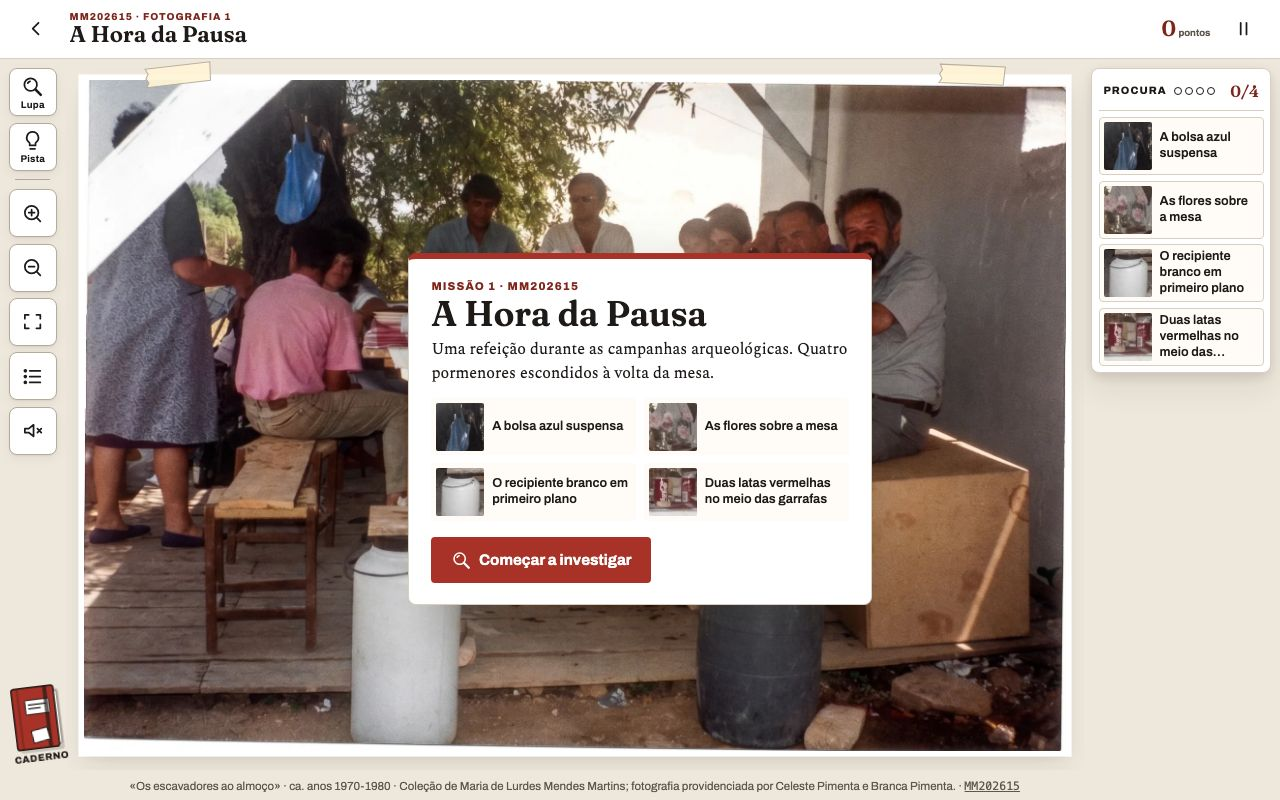
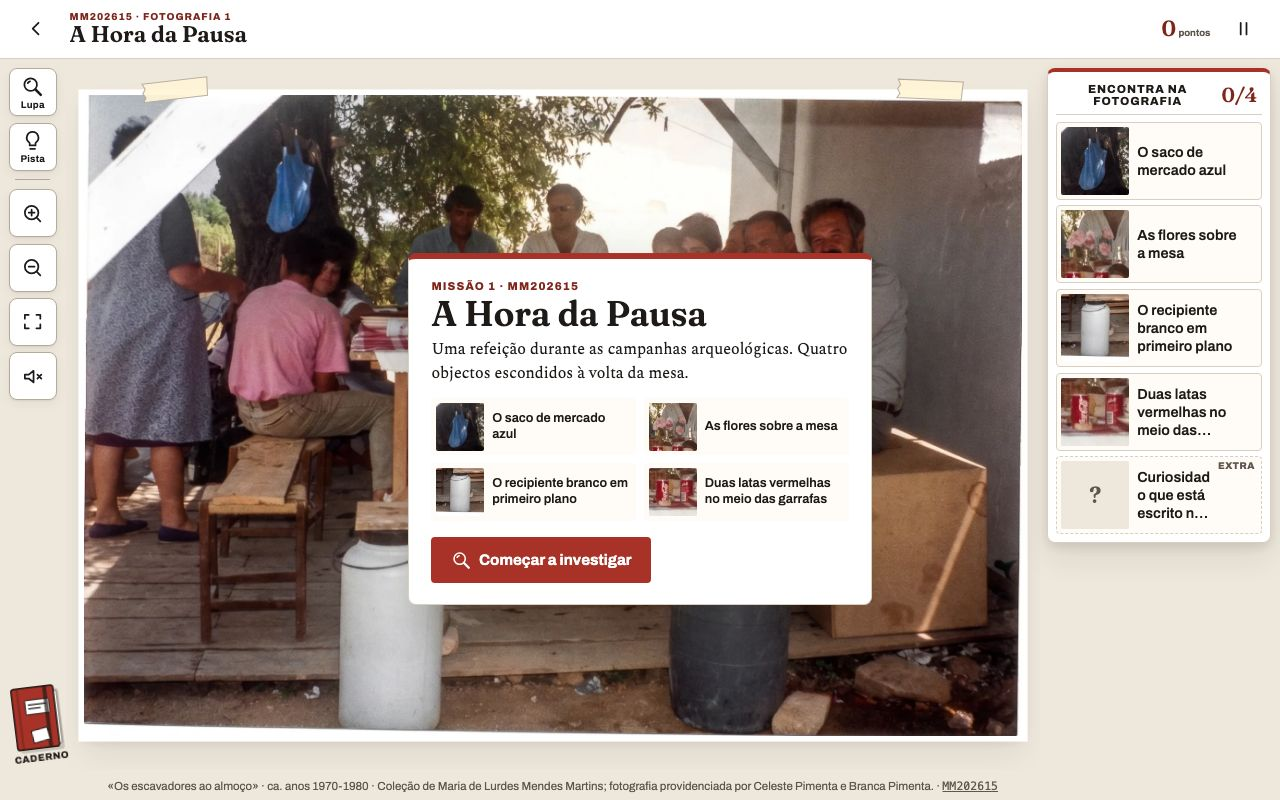
feat(lab): Detetives 0.3.1 — correcções do responsável
- MM202615 sem suposições: saco de mercado; recipiente branco sem material/uso.
- Resultado imediato ao descobrir (sem «Saber mais»); objectivos maiores e mais visíveis;
  pontinhos e «Explorar por descrição» saem da barra (descrição passa para a Pausa).
- Curiosidades com dados da ficha (verso Kodak MM202615; carimbo Kodak dez. 1984 MM202621).
- Mapa de atenção local (equipa) por fotografia; nunca enviado.
- Cartões quadrados com o objecto inteiro. Testes 740; e2e 1280/768/375 sem erros/CSP/overflow.

diff --git a/src/lab/lab.css b/src/lab/lab.css
@@ -369,8 +369,10 @@
   .dm-notebook-obj{position:fixed;left:max(.7rem,env(safe-area-inset-left,0px));bottom:calc(.35rem + env(safe-area-inset-bottom,0px));z-index:5;width:3rem}
   .dm-notebook-obj__label{display:none}
   .dm-guide{position:fixed;left:.6rem;right:.6rem;bottom:calc(4.4rem + env(safe-area-inset-bottom,0px));max-width:none}
-  .dm-discovery{position:fixed;left:.6rem;right:.6rem;bottom:calc(4.4rem + env(safe-area-inset-bottom,0px));width:auto;max-height:55vh;grid-template-columns:3.5rem minmax(0,1fr)}
+  .dm-discovery{position:relative;inset:auto;order:3;flex:0 0 auto;margin:.5rem .6rem 0;width:auto;max-height:none;overflow:visible;grid-template-columns:3.5rem minmax(0,1fr);box-shadow:var(--dm-e1)}
+  .dm-objectives{order:2}.dm-stage{order:0}.dm-credit{order:1}.dm-tools{order:10}
   .dm-discovery .dm-obj__pic{width:3.5rem;height:3.5rem}
+  .dm-obj__pic{width:3.6rem;height:3.6rem}
   .dm-describe{position:fixed;top:auto;left:.6rem;right:.6rem;bottom:calc(4.4rem + env(safe-area-inset-bottom,0px));width:auto;max-height:60vh}
   .dm-brief{position:fixed;top:auto;bottom:calc(.6rem + env(safe-area-inset-bottom,0px));left:.6rem;right:.6rem;width:auto;max-height:80vh;transform:none;animation-name:dm-rise}
   .dm-brief__objs{grid-template-columns:1fr 1fr}

diff --git a/docs/website/DETETIVES_PLANEAMENTO_MISSOES.md b/docs/website/DETETIVES_PLANEAMENTO_MISSOES.md
@@ -25,26 +25,26 @@ Sobreposições para revisão: `docs/website/capturas/detetives-v0.2/<ID>_pistas
 - **Recompensa:** Selo do quotidiano · página do álbum «O quotidiano das equipas» · mensagem: «Descobriste que a história de uma escavação também se constrói à volta da mesa.»
 - **Ligações:** MM202622
 
-> **v0.3 (2026-11-03) — substituída** a versão v0.2 (mesa, contagem do grupo, flores, comparação com MM202622) por **quatro objectos concretos** para procurar, a pedido do responsável («bolsa azul suspensa, flores sobre a mesa, recipiente branco em primeiro plano» + um 4.º pormenor validado). Objectivos vagos («encontra o grupo/a mesa») retirados. A ligação a MM202622 passa para a história final da recompensa.
-> Coordenadas no espaço da **variante canónica** (`immersive`); o jogo mostra o derivado de apresentação sem margens do scan e converte-as pelo recorte registado em `public/data/lab/detetives-derivados.json`.
+> **v0.3.1 (2026-11-03) — correcções do responsável:** «bolsa azul» → **saco de mercado**; recipiente branco **sem material nem uso** (não se sabe se é plástico); textos limitados ao que se vê (sem interpretações sobre protecção, refrigerantes ou gestos). Acrescentada a curiosidade **«O verso da fotografia»** (extra) com os dados da ficha (indicação Kodak, formato).
+> Coordenadas no espaço da **variante canónica** (`immersive`); o jogo mostra o derivado de apresentação sem margens do scan (`public/data/lab/detetives-derivados.json`).
 
-| # | Descoberta | Camada | Tipo | Elemento visível confirmado | Zona (canónica) | Certeza | Fonte |
+| # | Descoberta | Camada | Tipo | Elemento visível confirmado / dados | Zona (canónica) | Certeza | Fonte |
 |---|---|---|---|---|---|---|---|
-| 1 | A bolsa azul | Observação | find | Saco de plástico azul pendurado num ramo do tronco escuro, à esquerda, acima das cabeças. | rect (0.232,0.18)–(0.29,0.292) | Confirmado | Ficha do Museu de Memórias MM202615 + observação directa da fotografia. |
-| 2 | As flores na mesa | Observação | find | Flores cor-de-rosa num copo de vidro, ao centro da mesa, entre garrafas. | rect (0.457,0.322)–(0.523,0.365) | Hipótese | Ficha do Museu de Memórias MM202615 + observação directa da fotografia. |
-| 3 | O recipiente branco | Observação | find | Bidão de plástico branco com asa metálica, no chão, em primeiro plano à esquerda. | rect (0.302,0.642)–(0.4,0.885) | Hipótese | Ficha do Museu de Memórias MM202615 + observação directa da fotografia. |
+| 1 | O saco de mercado | Observação | find | Saco de mercado azul pendurado num ramo do tronco escuro, à esquerda, acima das cabeças. | rect (0.232,0.18)–(0.29,0.292) | Confirmado | Ficha do Museu de Memórias MM202615 + observação directa da fotografia. |
+| 2 | As flores na mesa | Observação | find | Flores cor-de-rosa num copo de vidro, ao centro da mesa, entre garrafas. | rect (0.457,0.322)–(0.523,0.365) | Confirmado | Ficha do Museu de Memórias MM202615 + observação directa da fotografia. |
+| 3 | O recipiente branco | Observação | find | Recipiente branco com asa, no chão, em primeiro plano à esquerda. | rect (0.302,0.642)–(0.4,0.885) | Confirmado | Ficha do Museu de Memórias MM202615 + observação directa da fotografia. |
 | 4 | As latas vermelhas | Observação | find | Duas latas vermelhas com rótulo branco, em pé sobre a toalha aos quadrados, à frente das flores. | rect (0.452,0.382)–(0.506,0.43) | Confirmado | Ficha do Museu de Memórias MM202615 + observação directa da fotografia. |
+| 5 | Curiosidade: o verso da fotografia | Investigação (extra) | question/caption | Formato: retrato, cerca de 10,1 × 14,9 cm. No verso: indicação «Kodak». Coleção de Maria de Lurdes Mendes Martins; fotografia providenciada por Celeste Pimenta e Branca Pimenta. | ficha do verso | Confirmado | Ficha do Museu de Memórias MM202615: «indicação Kodak no verso». |
 
 **Textos das descobertas:**
 
-- *A bolsa azul:* Uma bolsa de plástico azul pendurada num ramo da árvore. Pendurar as coisas era uma forma simples de as proteger do chão, dos animais e do calor. Não sabemos o que guardava.
-- *As flores na mesa:* Um copo com flores cor-de-rosa no meio da mesa. Um pequeno gesto de cuidado que mostra que esta pausa era também um momento de estar juntos. A interpretação do gesto é nossa.
-- *O recipiente branco:* Um grande recipiente de plástico branco, com asa, pousado junto ao banco. Recipientes destes serviam muitas vezes para guardar água num sítio sem torneira, mas a fotografia não mostra o que continha.
-- *As latas vermelhas:* Duas latas de refrigerante vermelhas. Embalagens, rótulos e objectos do quotidiano mudam com os anos e ajudam a situar uma fotografia no tempo. A ficha data esta imagem de cerca dos anos 1970-1980.
+- *O saco de mercado:* Um saco de mercado azul pendurado num ramo da árvore, acima das cabeças. A fotografia não mostra o que levava.
+- *As flores na mesa:* Um copo com flores cor-de-rosa no centro da mesa, entre as garrafas.
+- *O recipiente branco:* Um grande recipiente branco com asa, pousado no chão em frente à mesa. A fotografia não mostra de que material é feito nem o que continha.
+- *As latas vermelhas:* Duas latas vermelhas em pé sobre a toalha, à frente das flores. Objectos do dia-a-dia como estes também ajudam a situar uma fotografia no tempo; a ficha data esta imagem de cerca dos anos 1970-1980.
+- *Curiosidade: o verso da fotografia:* A ficha regista a indicação «Kodak» no verso. Muitas fotografias em papel desta época têm no verso o nome do fabricante do papel ou do laboratório. O verso não identifica as pessoas nem o dia da refeição.
 
 **História final (recompensa):** Esta fotografia faz parte de um conjunto cedido por Celeste Pimenta e Branca Pimenta. Noutra fotografia do mesmo conjunto (MM202622), trabalhadoras das ruínas cozinham em grandes panelas. Não sabemos se foram tiradas no mesmo dia.
-
-**4.º pormenor escolhido — latas vermelhas:** visível com clareza sobre a toalha, à frente das flores; o texto só afirma o que se vê (latas de refrigerante) e a datação da ficha (ca. anos 1970-1980). Marca/rótulo **não** identificados.
 
 ## 2. Lavando os Cacos — `MM202621`
 
@@ -111,3 +111,7 @@ Sobreposições para revisão: `docs/website/capturas/detetives-v0.2/<ID>_pistas
 2. Uso interactivo destas fotografias fora do ambiente de teste (direitos por fonte: coleção de Maria de Lurdes Mendes Martins, Celeste Pimenta e Branca Pimenta).
 3. Relações MM202615↔MM202622 e MM202614↔MM202613 como «ligações» de jogo (proveniência e tema comuns; data comum não comprovada).
 4. A pergunta das luvas (MM202614) convida a partilhar a memória do motivo, que não está documentado.
+
+## v0.3.1 — MM202621: pergunta do verso com dados
+
+A pergunta «O verso da fotografia» passa a mostrar o que a ficha regista (carimbo apagado, Kodak, dezembro de 1984; papel com brilho espelhado, pontas arredondadas, ~10 × 15 cm) e explica por que a data de revelação pode ser posterior à fotografia. Fonte: ficha MM202621.

diff --git a/docs/website/SPEC_DETETIVES_DA_MEMORIA.md b/docs/website/SPEC_DETETIVES_DA_MEMORIA.md
@@ -96,3 +96,12 @@ Pedido do responsável: tornar o protótipo um jogo de procurar objectos com aca
 - **Verificação:** 17 testes do laboratório e 739 no total; e2e em Chrome a 1280×800, 768×1024 e 375×812 — 0 erros, 0 violações CSP, sem scroll horizontal, alinhamento depois de zoom exacto (centro do contorno = centro esperado ±0,0001), persistência após recarregar, teclado e explorar por descrição funcionais. Capturas em `docs/website/capturas/detetives-v0.3/`.
 - **Aprovação visual ≠ funcional:** ambos pendentes do responsável. Componentes DS-L005..L011 em `proposed`.
 
+### 6.1 v0.3.1 — correcções após revisão do responsável (2026-11-03)
+
+- Textos de MM202615 sem suposições (saco de mercado; recipiente branco sem material/uso; sem interpretações).
+- **Resultado imediato:** ao descobrir, o cartão com o texto, a certeza e a fonte abre logo (sem «Saber mais»); não bloqueia — tocar de novo na fotografia fecha-o. Guia: «Boa descoberta!».
+- **Objectivos mais visíveis:** painel maior (miniaturas quadradas com o objecto inteiro, título «Encontra na fotografia», contador grande); pontinhos de progresso retirados.
+- «Explorar por descrição» saiu da barra lateral e passou para o menu Pausa (alternativa acessível mantida).
+- **Curiosidades com dados da ficha:** perguntas mostram «O que a ficha regista» (MM202615: verso Kodak, extra; MM202621: carimbo Kodak dez. 1984, papel, formato).
+- **Mapa de atenção (equipa):** grelha local 24×16 por fotografia com passagens da lupa/rato (peso 1) e toques (peso 3); nunca enviada. Ver em Pausa → «Mostrar o mapa de atenção» e no Caderno → «Medição local». Cor de dados (`info`), não a cor de marca.
+
